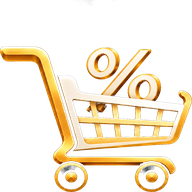
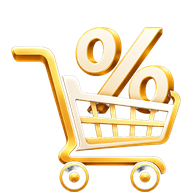
La página: el consejo pasa a una pantalla flotante, y el ícono con el % grande.
EL CONSEJO DE GUARDARLA EN EL CELULAR. El desplegable no servía: él lo vio en el teléfono y el renglón se partía en tres, el texto quedaba gris claro sobre fondo claro y no se entendía dónde tocar para abrirlo y cerrarlo. Textual: "la tarjeta anda mal en el celular, no funciona, no está claro el botón de abrir y cerrar, y no se ve bien". Ahora es lo que él mismo había propuesto: una línea con el consejo y un botón «¿Cómo se hace?» bien marcado (130 x 36, solo en su renglón en el celular) que abre una pantalla flotante con los pasos de Android y de iPhone, y un botón «Listo» del ancho de la ventana para cerrarla.

Y el ícono de la app pasa al que mandó después, el del porcentaje grande, en los dos lugares. Va cuadrado y centrado, así no se deforma adentro del botón redondo.

Changed region(s): [[0.0, 0.125, 1.0, 1.0], [0.6562, 0.8125, 0.9375, 1.0]]

diff --git a/negocio/index.html b/negocio/index.html
@@ -201,18 +201,24 @@
   /* EL CONSEJO DE GUARDARLA EN EL CELULAR, con su dibujo y el paso a paso.
      (2026-10-07: *"poné un iconito que te explique cómo hacerlo, con una
      leyenda"*.) */
-  /* EL CONSEJO, PLEGADO: cerrado ocupa un renglón. (2026-10-07.) */
-  .consejo { margin-top: 18px; background: var(--kraft); border: 1px solid rgba(42,33,23,.12); border-radius: 12px; color: #2A2117; }
-  .consejo summary { display: flex; gap: 10px; align-items: center; padding: 11px 14px; cursor: pointer; list-style: none; }
-  .consejo summary::-webkit-details-marker { display: none; }
-  .consejo svg { width: 20px; height: 20px; flex-shrink: 0; color: var(--corteza); }
-  .consejo b { font-size: 14px; color: #2A2117; font-weight: 700; }
-  .consejo summary b { flex: 1; min-width: 0; }
-  .consejo .abrir { font-size: 13px; font-weight: 700; color: var(--corteza); flex-shrink: 0; white-space: nowrap; }
-  .consejo[open] .abrir { visibility: hidden; }
-  .consejo p { margin: 0 14px 10px 44px; font-size: 13px; line-height: 1.6; color: #6B5F4C; }
-  .consejo p:first-of-type { margin-top: 2px; }
-  .consejo u { text-decoration: none; font-weight: 700; color: var(--corteza); }
+  /* EL CONSEJO: UN RENGLÓN Y UN BOTÓN. La explicación va en una pantalla
+     flotante (2026-10-07): el desplegable, en el celular, partía el renglón en
+     tres y no se entendía dónde tocar. */
+  .consejo-link { display: flex; align-items: center; gap: 9px; flex-wrap: wrap; margin-top: 18px; font-size: 14px; line-height: 1.5; }
+  .consejo-link svg { width: 20px; height: 20px; flex-shrink: 0; color: var(--trigo); }
+  .consejo-link > span { flex: 1 1 200px; min-width: 0; }
+  /* El botón, bien marcado y con lugar para el dedo: en el celular queda solo
+     en su renglón y se toca sin apuntar. */
+  .comoabrir { flex-shrink: 0; background: transparent; border: 1px solid var(--trigo); border-radius: 999px; padding: 7px 14px; font: inherit; font-size: 13px; font-weight: 700; color: var(--trigo); cursor: pointer; }
+  .comoabrir:hover, .comoabrir:focus-visible { background: var(--trigo); color: #2A2117; }
+  .como { border: none; border-radius: 16px; padding: 22px 22px 18px; max-width: 420px; width: calc(100% - 28px); background: var(--papel); color: var(--tinta); box-shadow: 0 30px 70px -20px rgba(0,0,0,.55); }
+  .como::backdrop { background: rgba(26,19,13,.6); }
+  .como h3 { margin: 0 0 12px; font-size: 20px; }
+  .como .paso { padding: 12px 0; border-top: 1px solid var(--linea); }
+  .como .paso > b { display: block; font-size: 12.5px; letter-spacing: .4px; text-transform: uppercase; color: var(--corteza); margin-bottom: 4px; }
+  .como .paso span { font-size: 14.5px; line-height: 1.6; }
+  .como .chiquito { font-size: 12.5px; color: var(--apagado); margin: 14px 0 16px; line-height: 1.6; }
+  .como .cerrar { width: 100%; padding: 12px; border: none; border-radius: 10px; background: var(--corteza); color: #fff; font: inherit; font-weight: 700; font-size: 15px; cursor: pointer; }
   .tarjeta .icono svg { width: 24px; height: 24px; }
   .tarjeta h3 { font-size: 18px; margin-bottom: 6px; }
   .tarjeta p { margin: 0; color: #4A3F33; font-size: 15px; }
@@ -369,18 +375,23 @@
           <a class="boton lleno" style="background:var(--trigo);color:var(--tinta)" href="https://gustavogerman1981mume.github.io/TRIGALES-DEL-SUR-PEDIDOS/" target="_blank" rel="noopener">Abrir la app de pedidos</a>
           <a class="boton wa" href="https://wa.me/5491151630039" target="_blank" rel="noopener" style="border-color:var(--wa)">Preguntar por WhatsApp</a>
         </div>
-        <!-- SE ABRE SOLO SI LO TOCA. (2026-10-07.) El dueño: *"no me gustó mucho
-             cómo se estiró la parte de la app del celular, la caja esa la agrandó
-             mucho"*. Cerrado es un renglón; el paso a paso aparece al tocarlo. -->
-        <details class="consejo">
-          <summary>
-            <svg viewBox="0 0 24 24" fill="none" stroke="currentColor" stroke-width="1.8" stroke-linecap="round" stroke-linejoin="round" aria-hidden="true"><rect x="6" y="2.5" width="12" height="19" rx="2.6"/><path d="M12 7.5v6M9 10.5l3-3 3 3"/><path d="M9.6 18.6h4.8"/></svg>
-            <b>Guardala en la pantalla del celular y queda como una app más.</b>
-            <span class="abrir">¿Cómo?</span>
-          </summary>
-          <p><u>En Android:</u> abrila, tocá los tres puntitos de arriba a la derecha y elegí <b>«Agregar a pantalla principal»</b>.</p>
-          <p><u>En iPhone:</u> abrila con Safari, tocá el cuadradito con la flecha de abajo y elegí <b>«Agregar a inicio»</b>.</p>
-        </details>
+        <!-- UN BOTÓN, Y LA EXPLICACIÓN EN UNA PANTALLA FLOTANTE. (2026-10-07.)
+             Primero fue un desplegable, y en el celular quedaba mal: el renglón
+             se partía en tres y no se entendía dónde tocar. El dueño: *"dejamos
+             el consejo como estaba antes, como que es un link, apretás y se abre
+             una pantalla flotante y muestra cómo se hace"*. -->
+        <p class="consejo-link">
+          <svg viewBox="0 0 24 24" fill="none" stroke="currentColor" stroke-width="1.8" stroke-linecap="round" stroke-linejoin="round" aria-hidden="true"><rect x="6" y="2.5" width="12" height="19" rx="2.6"/><path d="M12 7.5v6M9 10.5l3-3 3 3"/><path d="M9.6 18.6h4.8"/></svg>
+          <span>Guardala en la pantalla del celular y queda como una app más.</span>
+          <button type="button" class="comoabrir" onclick="document.getElementById('comoguardar').showModal()">¿Cómo se hace?</button>
+        </p>
+        <dialog id="comoguardar" class="como" aria-label="Cómo guardarla en el celular">
+          <h3>Guardarla en el celular</h3>
+          <div class="paso"><b>En Android</b><span>Abrila, tocá los <b>tres puntitos</b> de arriba a la derecha y elegí <b>«Agregar a pantalla principal»</b>.</span></div>
+          <div class="paso"><b>En iPhone</b><span>Abrila con <b>Safari</b>, tocá el <b>cuadradito con la flecha</b> de abajo y elegí <b>«Agregar a inicio»</b>.</span></div>
+          <p class="chiquito">Queda con el ícono en la pantalla, como cualquier otra app. No ocupa lugar ni hay que instalar nada.</p>
+          <button type="button" class="cerrar" onclick="document.getElementById('comoguardar').close()">Listo</button>
+        </dialog>
       </div>
       <!-- El ancho y el alto del video (484 x 1046) reservan su lugar desde el principio: la página no salta al cargarlo. -->
       <div class="celu"><video  poster="app-en-vivo-poster.png" width="484" height="1046" autoplay muted loop playsinline aria-label="Así se hace un pedido en la app: se busca harina y margarina, se eligen las cantidades, y el pedido se manda por WhatsApp"><source src="app-en-vivo.mp4" type="video/mp4"><source src="app-en-vivo.webm" type="video/webm"></video></div>
